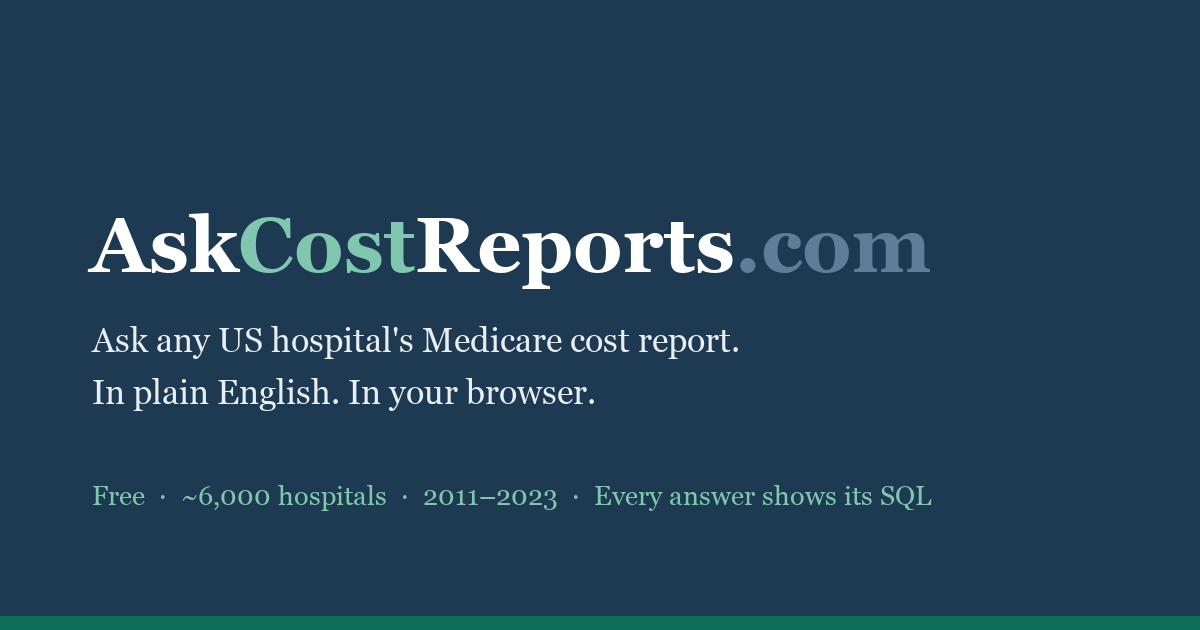
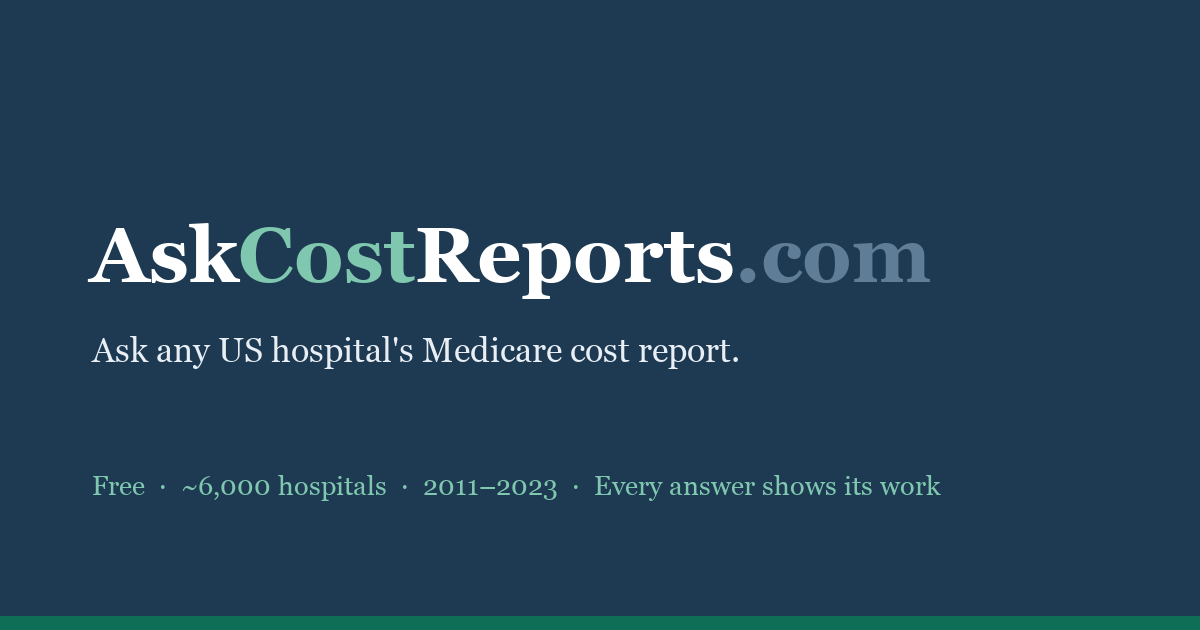
Budget-graceful degradation + copy: friendly cap-hit state turns limits into leads, remove 'in plain English'

diff --git a/index.html b/index.html
@@ -4,10 +4,10 @@
 <meta charset="UTF-8">
 <meta name="viewport" content="width=device-width, initial-scale=1.0">
 <title>AskCostReports.com — Ask any US hospital's Medicare cost report</title>
-<meta name="description" content="Ask questions about any US hospital's finances in plain English. Every Medicare cost report, queryable in your browser.">
+<meta name="description" content="Ask questions about any US hospital's finances. Every Medicare cost report, queryable free in your browser.">
 <meta property="og:type" content="website">
 <meta property="og:title" content="AskCostReports.com — Ask any US hospital's Medicare cost report">
-<meta property="og:description" content="Every US hospital's finances, in plain English. Free, runs in your browser, every answer shows its work. ~6,000 hospitals, 2011-2023.">
+<meta property="og:description" content="Every US hospital's finances. Free, runs in your browser, every answer shows its work. ~6,000 hospitals, 2011-2023.">
 <meta property="og:image" content="https://alexdoster.github.io/askcostreports/og.png">
 <meta property="og:url" content="https://askcostreports.com">
 <meta name="twitter:card" content="summary_large_image">
@@ -121,7 +121,7 @@ body{font-family:Georgia,'Times New Roman',serif;background:#f7f6f3;height:100vh
 <div class="header">
   <div>
     <div style="color:#fff;font-family:-apple-system,sans-serif;font-size:22px;font-weight:800;letter-spacing:-.01em;line-height:1.15">Ask<span style="color:#7fc7ae">Cost</span>Reports<span style="color:#5f7d96;font-weight:600">.com</span></div>
-    <div style="color:#93aec4;font-family:-apple-system,sans-serif;font-size:11.5px" id="hdr-sub">Every US hospital's finances, in plain English · Free · Runs in your browser</div>
+    <div style="color:#93aec4;font-family:-apple-system,sans-serif;font-size:11.5px" id="hdr-sub">Every US hospital's finances · Free · Runs in your browser</div>
   </div>
   <div style="display:flex;align-items:center;gap:16px">
     <a class="hdr-link" href="#" onclick="showAbout();return false">About the data</a>
@@ -137,7 +137,7 @@ body{font-family:Georgia,'Times New Roman',serif;background:#f7f6f3;height:100vh
     </div>
     <div class="about-sec">
       <h4>What this is</h4>
-      <p>Every Medicare-certified hospital in the US must file an annual cost report with CMS. It is the only public source of complete financials for every American hospital: income statement, balance sheet, utilization, staffing, and charity care. AskCostReports loads CMS's curated extract — 117 measures per hospital per year — into your browser and lets you query it in plain English.</p>
+      <p>Every Medicare-certified hospital in the US must file an annual cost report with CMS. It is the only public source of complete financials for every American hospital: income statement, balance sheet, utilization, staffing, and charity care. AskCostReports loads CMS's curated extract — 117 measures per hospital per year — into your browser and lets you query it by asking questions.</p>
     </div>
     <div class="about-sec">
       <h4>How fresh it is</h4>
@@ -180,7 +180,7 @@ body{font-family:Georgia,'Times New Roman',serif;background:#f7f6f3;height:100vh
     <div class="messages" id="messages">
       <div class="welcome" id="welcome">
         <h2>Ask any US hospital's Medicare cost report</h2>
-        <p style="margin-bottom:14px">Every Medicare-certified hospital files an annual cost report — the only public source of complete financials for every American hospital. Ask in plain English; the AI writes the query, runs it in your browser, and shows its work.</p>
+        <p style="margin-bottom:14px">Every Medicare-certified hospital files an annual cost report — the only public source of complete financials for every American hospital. Ask a question; the AI writes the query, runs it in your browser, and shows its work.</p>
         <div style="background:#fff;border:1px solid #e0ddd6;border-radius:8px;padding:14px 18px;text-align:left;margin-bottom:16px;font-family:-apple-system,sans-serif;font-size:13px;color:#3d3d3a;line-height:1.8">
           <div style="font-weight:600;color:#1d3a52;margin-bottom:6px;font-size:12px;text-transform:uppercase;letter-spacing:.06em">Dataset</div>
           <div id="ds-stats">· Loading dataset details...</div>
@@ -345,7 +345,7 @@ async function loadData(setStatus, setBar) {
     `· <strong>117</strong> measures per hospital: income statement, balance sheet, utilization, staffing, charity care<br>` +
     `· Source: CMS Hospital Provider Cost Report (public domain)`;
   document.getElementById("hdr-sub").textContent =
-    `Every US hospital's finances ${yrs[0]}–${yrs[yrs.length - 1]}, in plain English · Free · Runs in your browser`;
+    `Every US hospital's finances ${yrs[0]}–${yrs[yrs.length - 1]} · Free · Runs in your browser`;
   document.getElementById("about-fresh").textContent =
     `Currently loaded: ${yrs[0]}–${yrs[yrs.length - 1]}, ${Number(MANIFEST.total_rows).toLocaleString()} hospital-year filings.`;
 
@@ -369,7 +369,7 @@ async function claudeCall(system, messages, maxTokens = 800) {
     const e = new Error("NETWORK_BLOCKED"); e.isNetworkError = true; throw e;
   }
   const data = await res.json();
-  if (data.error) throw new Error(data.error.message);
+  if (data.error) { const e = new Error(data.error.message); e.code = data.error.code; throw e; }
   if (data.usage) {
     sessionInputTokens += data.usage.input_tokens || 0;
     sessionOutputTokens += data.usage.output_tokens || 0;
@@ -465,7 +465,11 @@ async function send(text) {
     conversationHistory.push({ role: "assistant", content: answerResp.text });
   } catch (err) {
     removeTyping(typingId);
-    if (err.isNetworkError) {
+    if (err.code === "budget") {
+      addBudgetMsg();
+    } else if (err.code === "busy") {
+      addErrorMsg("A lot of people are asking questions right now. Give it a minute and try again — the data is still loaded and ready.");
+    } else if (err.isNetworkError) {
       addErrorMsg("This network may be blocking external API connections. Try a different network or mobile hotspot.");
     } else {
       addErrorMsg(err.message || "An error occurred. Please try again.");
@@ -514,6 +518,18 @@ function addAIMsg(sql, queryResult, answer, tokens, questionCost, sessionCost) {
       </div>
     </div>
     <div class="cost-line">↳ ${tokens.toLocaleString()} tokens · $${questionCost.toFixed(4)} this question · $${sessionCost.toFixed(4)} session</div>
+  </div>`;
+  c.appendChild(row); c.scrollTop = c.scrollHeight;
+}
+
+function addBudgetMsg() {
+  const c = document.getElementById("messages");
+  const row = document.createElement("div");
+  row.className = "msg-row";
+  row.innerHTML = `<div class="ai-avatar">AI</div><div class="bubble ai" style="border-color:#0F6E56">
+    <div style="font-weight:600;color:#0F6E56;margin-bottom:6px">This free tool hit its monthly AI budget — thanks for the enthusiasm.</div>
+    <div style="font-size:13px;line-height:1.6">AskCostReports runs on a fixed monthly budget to stay free. It resets on the 1st. The data is still loaded in your browser right now, so anything already on screen keeps working.</div>
+    <div style="font-size:13px;line-height:1.6;margin-top:8px">Need heavier access, or want this kind of tool on your organization's own data? <a href="https://alexdoster.github.io/Portfolio" target="_blank" rel="noopener" style="color:#0F6E56;font-weight:600">Get in touch →</a></div>
   </div>`;
   c.appendChild(row); c.scrollTop = c.scrollHeight;
 }

diff --git a/cloudflare-worker.js b/cloudflare-worker.js
@@ -74,6 +74,18 @@ export default {
     });
 
     const data = await anthropicResp.json();
+
+    // Translate upstream failures into honest, friendly states the app can
+    // render. A blown monthly budget is a success signal, not a crash.
+    if (!anthropicResp.ok) {
+      const msg = (data && data.error && data.error.message) || "";
+      if (/credit|billing|balance|spend/i.test(msg)) {
+        return json({ error: { code: "budget", message: "monthly budget reached" } }, 503, cors);
+      }
+      if (anthropicResp.status === 429 || anthropicResp.status === 529) {
+        return json({ error: { code: "busy", message: "high demand" } }, 503, cors);
+      }
+    }
     return json(data, anthropicResp.status, cors);
   },
 };